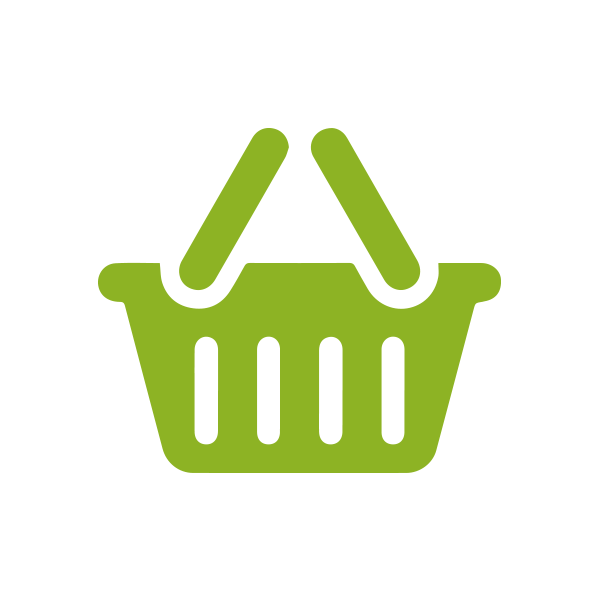
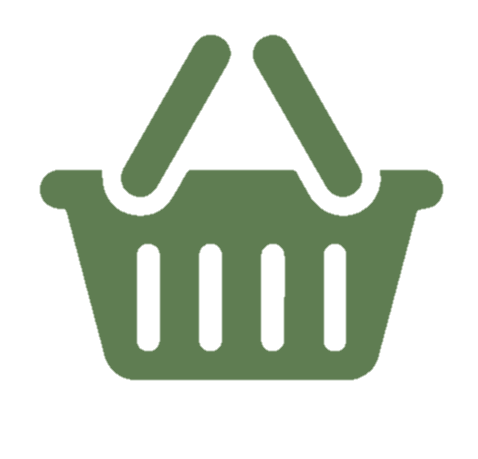
changement

diff --git a/stylesheet.css b/stylesheet.css
@@ -94,21 +94,21 @@ align-self: flex-end;
 
 .menuCart{
 
-
-font-size: 2em;
-font-family: Arial;
-color:black;
 float:right;
 position: relative;
 right: 20px;
-
-
-
-
-
-
-
-
+}
+.logoCart{
+width:55px;
+height:55px;
+}
+.button{
+    background-color: rgb(83, 135, 88); 
+    float:right;
+    height: 60px;
+    width:60px;
+    position: relative;
+    right: 20px;
 }
 
 #logoNom

diff --git a/tabA1.php b/tabA1.php
@@ -27,7 +27,7 @@
                 <strong>Mémoire graphique :</strong> 8.0 Go <br />
             </p>
             <form> 
-                <input style="background-color: blue; margin-left: 620px; height: 60px" type="button" value=" Ajouter au Panier" onclick="alert('Produit ajouté !')">
+                <input class="button" type="button" value=" Ajouter au Panier" onclick="alert('Produit ajouté !')">
             </form>
         </div>
     </body>

diff --git a/ordiS2.php b/ordiS2.php
@@ -28,7 +28,7 @@
                 <strong>Mémoire graphique :</strong> 16.0 Go <br />
             </p>
             <form> 
-                <input style="background-color: blue; margin-left: 620px; height: 60px" type="button" value=" Ajouter au Panier" onclick="alert('Produit ajouté !')">
+                <input class="button" type="button" value=" Ajouter au Panier" onclick="alert('Produit ajouté !')">
             </form>
         </div>
 

diff --git a/telS2.php b/telS2.php
@@ -26,7 +26,7 @@
                 <strong>Mémoire graphique :</strong> 16.0 Go <br />
             </p>
             <form> 
-                <input style="background-color: blue; margin-left: 620px; height: 60px" type="button" value=" Ajouter au Panier" onclick="alert('Produit ajouté !')">
+                <input class="button" type="button" value=" Ajouter au Panier" onclick="alert('Produit ajouté !')">
             </form>
         </div>
 

diff --git a/ordiA1.php b/ordiA1.php
@@ -27,7 +27,7 @@
                 <strong>Mémoire graphique :</strong> 8.0 Go <br />
             </p>
             <form> 
-                <input style="background-color: blue; margin-left: 620px; height: 60px" type="button" value=" Ajouter au Panier" onclick="alert('Produit ajouté !')">
+                <input class="button" type="button" value=" Ajouter au Panier" onclick="alert('Produit ajouté !')">
             </form>
         </div>
 

diff --git a/ordiA2.php b/ordiA2.php
@@ -27,7 +27,7 @@
                 <strong>Mémoire graphique :</strong> 8.0 Go <br />
             </p>
             <form> 
-                <input style="background-color: blue; margin-left: 620px; height: 60px" type="button" value=" Ajouter au Panier" onclick="alert('Produit ajouté !')">
+                <input class="button" type="button" value=" Ajouter au Panier" onclick="alert('Produit ajouté !')">
             </form>
         </div>
 

diff --git a/ordiS1.php b/ordiS1.php
@@ -27,7 +27,7 @@
                 <strong>Mémoire graphique :</strong> 6.0 Go <br />
             </p>
             <form> 
-                <input style="background-color: blue; margin-left: 620px; height: 60px" type="button" value=" Ajouter au Panier" onclick="alert('Produit ajouté !')">
+                <input class="button" type="button" value=" Ajouter au Panier" onclick="alert('Produit ajouté !')">
             </form>
         </div>
 

diff --git a/tabA2.php b/tabA2.php
@@ -27,7 +27,7 @@
                 <strong>Mémoire graphique :</strong> 8.0 Go <br />
             </p>
             <form> 
-                <input style="background-color: blue; margin-left: 620px; height: 60px" type="button" value=" Ajouter au Panier" onclick="alert('Produit ajouté !')">
+                <input class="button" type="button" value=" Ajouter au Panier" onclick="alert('Produit ajouté !')">
             </form>
         </div>
 

diff --git a/telA2.php b/telA2.php
@@ -25,7 +25,7 @@
                 <strong>Mémoire graphique :</strong> 8.0 Go <br />
             </p>
             <form> 
-                <input style="background-color: blue; margin-left: 620px; height: 60px" type="button" value=" Ajouter au Panier" onclick="alert('Produit ajouté !')">
+                <input class="button" type="button" value=" Ajouter au Panier" onclick="alert('Produit ajouté !')">
             </form>
         </div>
 

diff --git a/telS1.php b/telS1.php
@@ -27,7 +27,7 @@
                 <strong>Mémoire graphique :</strong> 6.0 Go <br />
             </p>
             <form> 
-                <input style="background-color: blue; margin-left: 620px; height: 60px" type="button" value=" Ajouter au Panier" onclick="alert('Produit ajouté !')">
+                <input class="button" type="button" value=" Ajouter au Panier" onclick="alert('Produit ajouté !')">
             </form>
         </div>
 

diff --git a/telA1.php b/telA1.php
@@ -25,7 +25,7 @@
                 <strong>Mémoire vive :</strong> 2.0 Go <br />
             </p>
             <form> 
-                <input style="background-color: blue; margin-left: 620px; height: 60px" type="button" value=" Ajouter au Panier" onclick="alert('Produit ajouté !')">
+                <input class="button" type="button" value=" Ajouter au Panier" onclick="alert('Produit ajouté !')">
             </form>
         </div>
 

diff --git a/header.php b/header.php
@@ -17,7 +17,7 @@
     <a href='productSearch.php' class ="menu"> Produits </a>      
     <a href='logUp.php' class ="menu"> Inscription  </a>
     <a href='logIn.php' class ="menu"> Connexion  </a>  
-    <a href='Cart.php' class ="menuCart">Panier</a></p>
+    <a href='Cart.php' class ="menuCart"><img class="logoCart" src="panier.png"></a></p>
 
     
   
